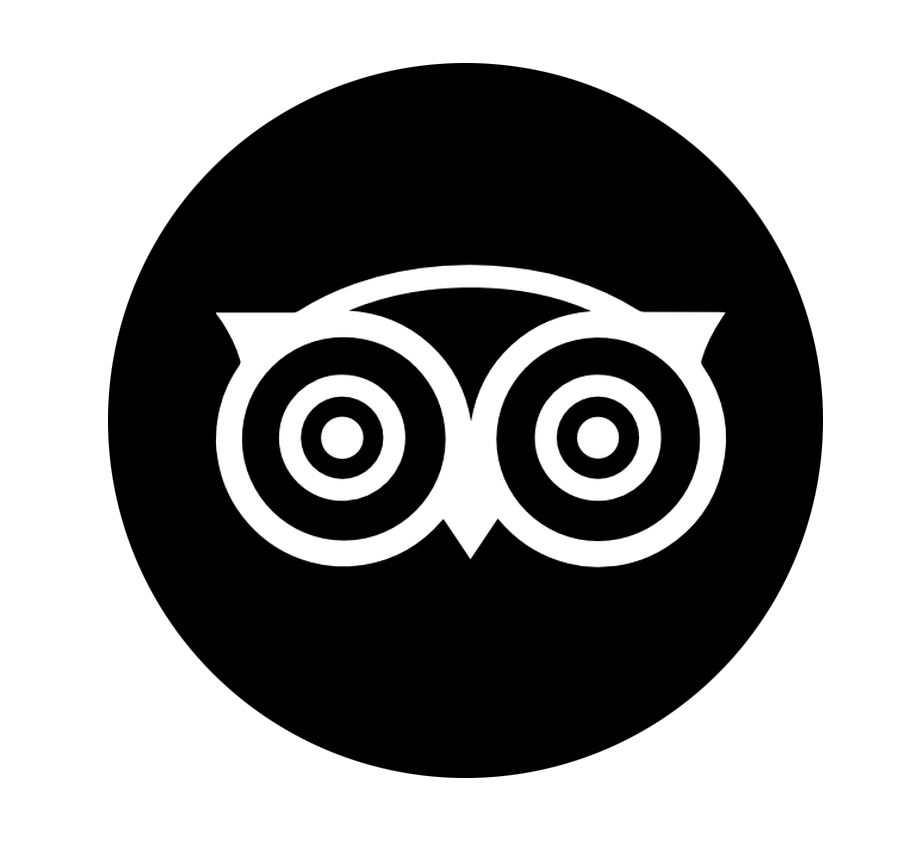
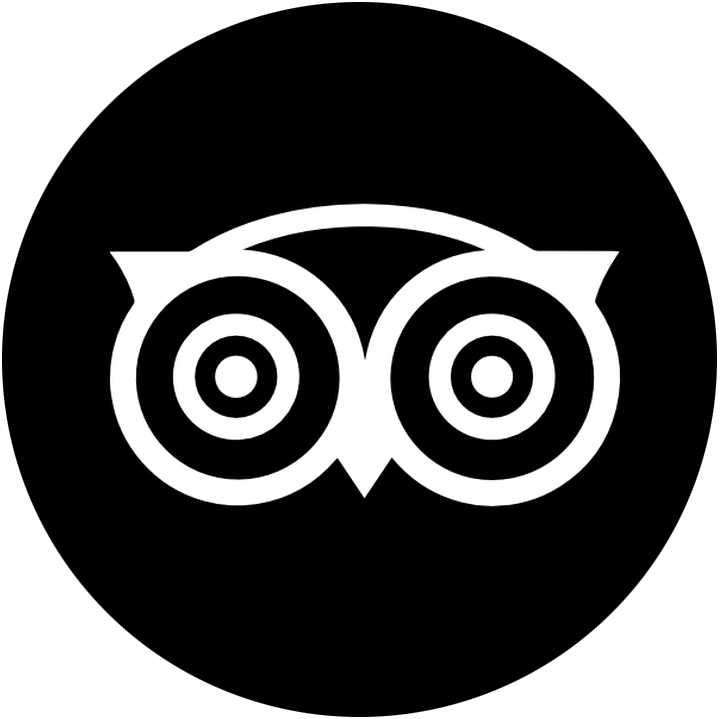
TripLogo ändrad super lite

diff --git a/css/mbMain.css b/css/mbMain.css
@@ -196,8 +196,8 @@ form .button{
 } 
 
 .icons img{
-    width: 30px;
-    height: 30px;
+    width: 50px;
+    height: 50px;
 }
 
 /* Menyns stylesheet */
